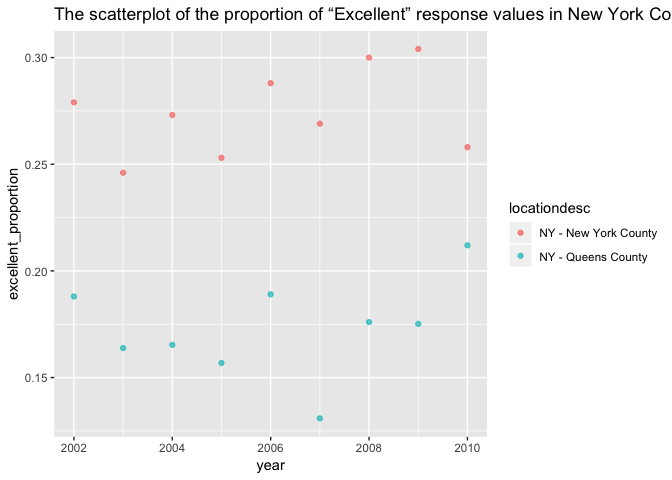
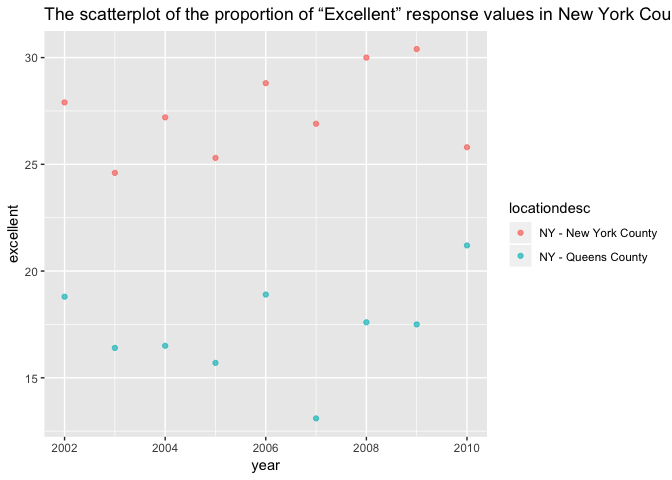
specify states

diff --git a/p8105_hw2_dz2399.md b/p8105_hw2_dz2399.md
@@ -102,7 +102,7 @@ df_nyc %>%
 
     ## [1] 17  2
 
-Therefore, 60 stations serves the A train in the dataset, and of those 56 stations, 17 stations are APA compliant.
+Therefore, 60 stations serves the A train in the dataset, and of those 60 stations, 17 stations are APA compliant.
 
 Problem 2
 ---------
@@ -157,7 +157,7 @@ precip_full
     ## 10 October    0.62  2016
     ## # ... with 14 more rows
 
-The dimension of the Mr. Trash Wheel dataset is 285, 14and the dimension of the combined clean precipitation data for 2016 and 2017 dataset is 24, 3. Take the first line of the Mr. Trash Wheel sheet for example, we would interpret it as on May 16th, 2014, dumpster 1 collected 4.31 tons of trash that had the volume of 18 cubic yards. These trash were consisted of 1450 plastic bottles, 1820 polystyrene, 126000 cigarette butts, 72 glass bottles, 584 grocery bags, 1162 chip bags and 7 sports balls. For some reason, the variable home powered is empty in this dataset, but technically it means that Each ton of trash equates to on average 500 kilowatts of electricity. An average household will use 30 kilowatts per day. For available data, the total precipitation in 2017 was 32.93. The median number of sports balls in a dumpster in 2016 is 26.
+The dimension of the Mr. Trash Wheel dataset is 285, 14and the dimension of the combined clean precipitation data for 2016 and 2017 dataset is 24, 3. Take the first line of the Mr. Trash Wheel sheet for example, we would interpret it as on May 16th, 2014, dumpster 1 collected 4.31 tons of trash that had the volume of 18 cubic yards. These trash were consisted of 1450 plastic bottles, 1820 polystyrene, 126000 cigarette butts, 72 glass bottles, 584 grocery bags, 1162 chip bags and 7 sports balls. In addition, the variable home powered is that each ton of trash equates to on average 500 kilowatts of electricity. An average household will use 30 kilowatts per day. For available data, the total precipitation in 2017 was 32.93. The median number of sports balls in a dumpster in 2016 is 26.
 
 Problem 3
 ---------
@@ -170,7 +170,7 @@ df_brfss <- brfss_smart2010 %>%
   select(-c(class,topic,question,sample_size,confidence_limit_low:geo_location)) %>%
   spread(key=response, value=data_value) %>% 
   janitor::clean_names() %>% 
-  mutate(proportion = (excellent+very_good)/(excellent+fair+good+poor+very_good) )
+  mutate(proportion = excellent + very_good)
 ```
 
 #### How many unique locations are included in the dataset? Is every state represented? What state is observed the most?
@@ -199,7 +199,7 @@ sort(table(df_brfss$locationabbr),decreasing = T)[1]
     ## 146
 
 -   404 unique locaitons are included in the dataset
--   Since there are 51 states in total, every state is represented in the datset.
+-   Since there are 51 states in total (50 states plus one DC), every state is represented in the datset.
 -   The most observed state is New Jersy, and it has 146 observations.
 
 #### In 2002, what is the median of the “Excellent” response value?
@@ -233,10 +233,9 @@ ggplot(df_1, aes(x=excellent, y=..density..))+
 ``` r
 df_2 <- df_brfss %>% 
   filter(locationabbr=='NY') %>% 
-  filter(locationdesc=='NY - New York County'|locationdesc=='NY - Queens County') %>% 
-  mutate(excellent_proportion = excellent/(excellent+fair+good+poor+very_good))
+  filter(locationdesc=='NY - New York County'|locationdesc=='NY - Queens County') 
 
-ggplot(df_2, aes(x=year, y=excellent_proportion,color=locationdesc))+
+ggplot(df_2, aes(x=year, y=excellent,color=locationdesc))+
   geom_point(alpha=0.7)+
   ggtitle('The scatterplot of the proportion of “Excellent” response values in New York County and Queens County from 2002 to 2010.')
 ```
